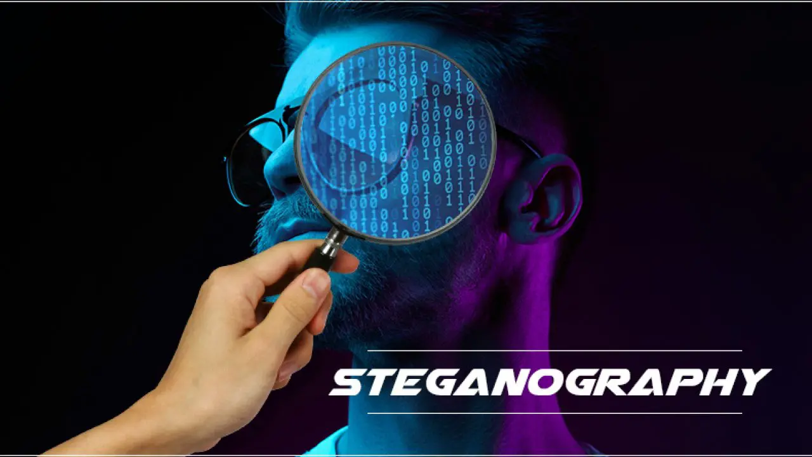
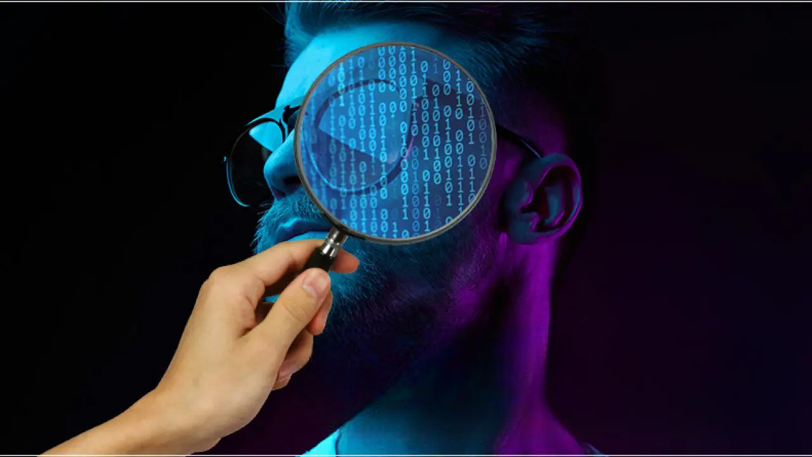
changed image in onboarding

Changed region(s): [[0.4002, 0.7352, 0.9544, 0.9497]]

diff --git a/frontend/lib/pages/login.dart b/frontend/lib/pages/login.dart
@@ -4,9 +4,13 @@ import 'package:font_awesome_flutter/font_awesome_flutter.dart';
 class Login extends StatelessWidget {
   const Login({super.key});
 
-    @override
+  @override
   Widget build(BuildContext context) {
     return Scaffold(
-      body: Stack());
+      extendBodyBehindAppBar: true,
+      body: Stack(
+        
+      )
+    );
   }
 }
